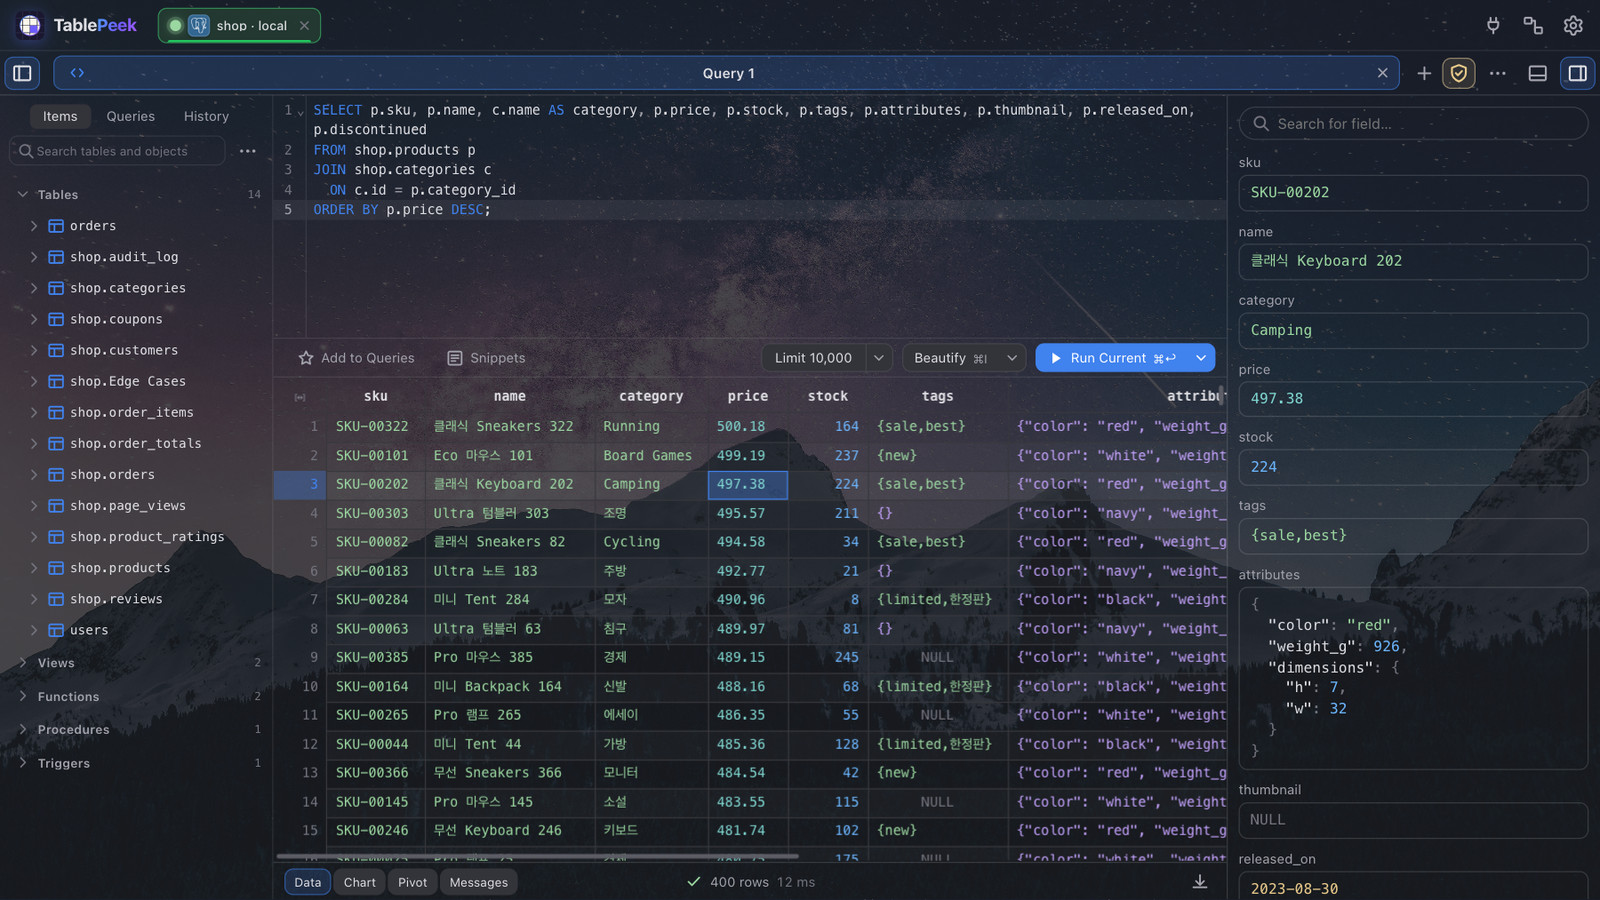
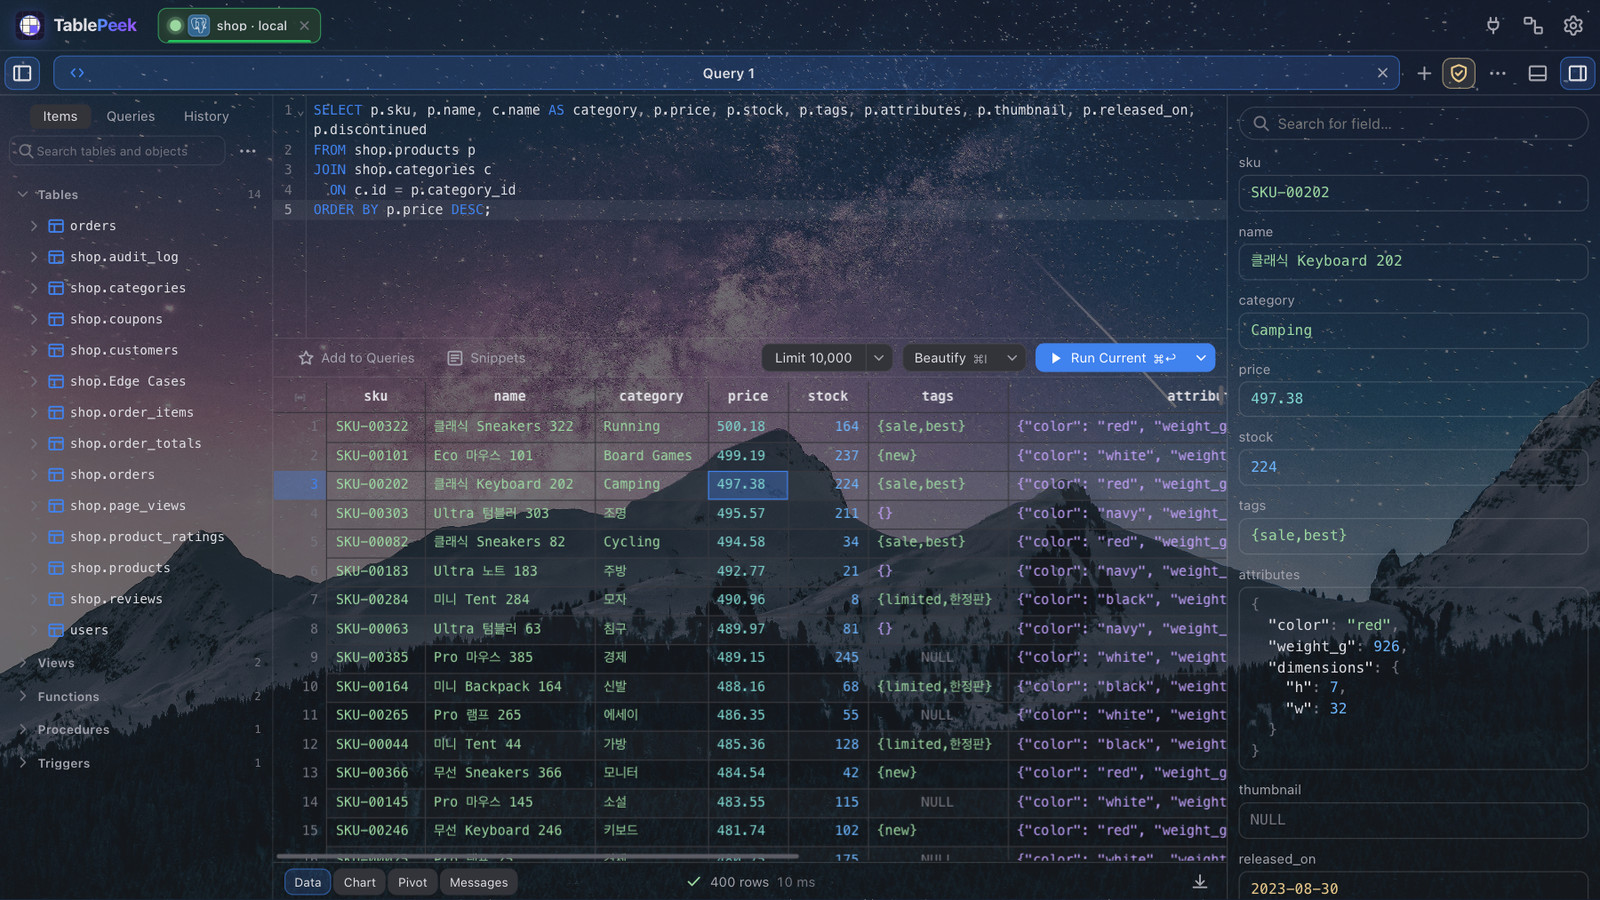
Show the Milky Way as the app's background in the README overview

Changed region(s): [[0.0, 0.1244, 0.9688, 0.7467], [0.4688, 0.1244, 0.5, 0.2178], [0.9688, 0.4356, 1.0, 0.4667]]

diff --git a/README.md b/README.md
@@ -8,7 +8,7 @@
 
 [Install](#install) · [Features](#features) · [Screenshots](#screenshots) · [Documentation](#documentation) · [Changelog](CHANGELOG.md)
 
-![TablePeek as a desktop app (dark theme over a Milky Way background picture) and in a browser tab (light theme), both showing a PostgreSQL query and its results](docs/images/overview.jpg)
+![TablePeek over a Milky Way background picture, as a desktop app showing a PostgreSQL query and in a browser tab showing a Redis key decoded from a Python pickle](docs/images/overview.jpg)
 
 </div>
 
